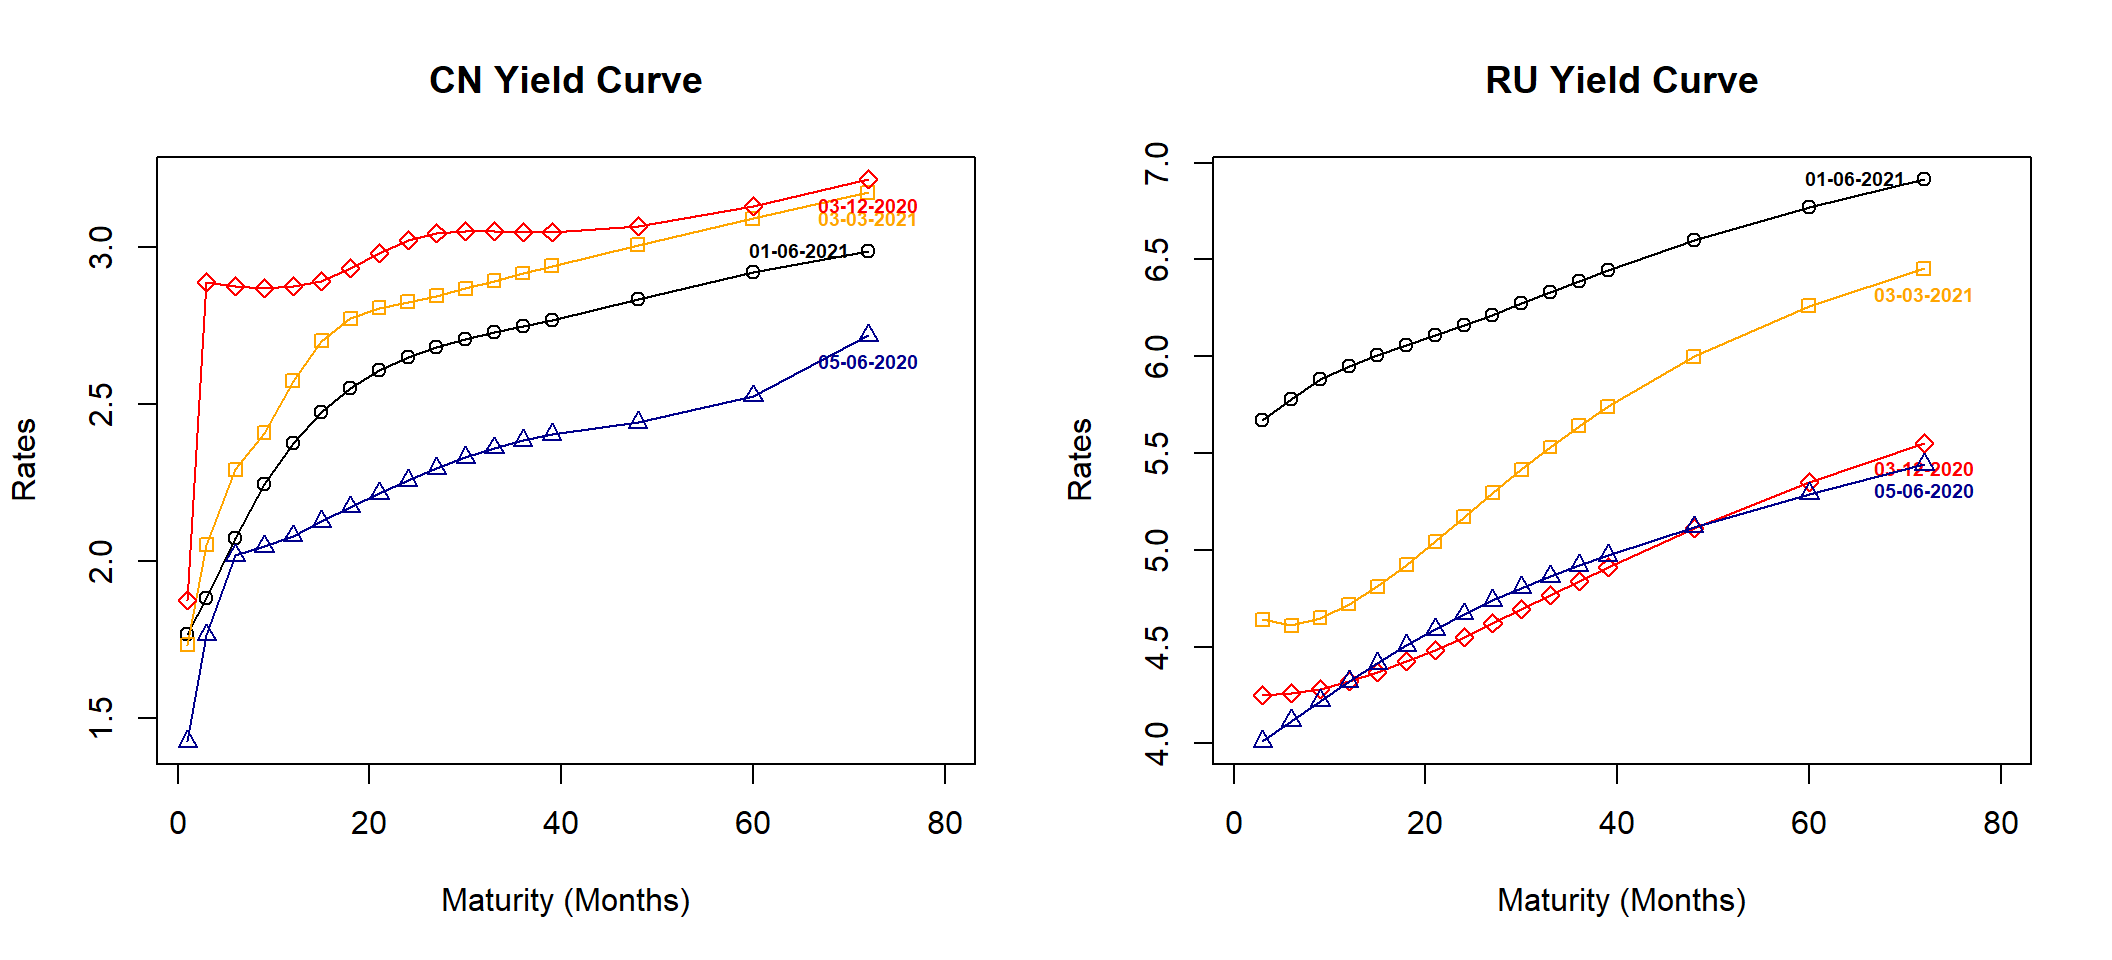
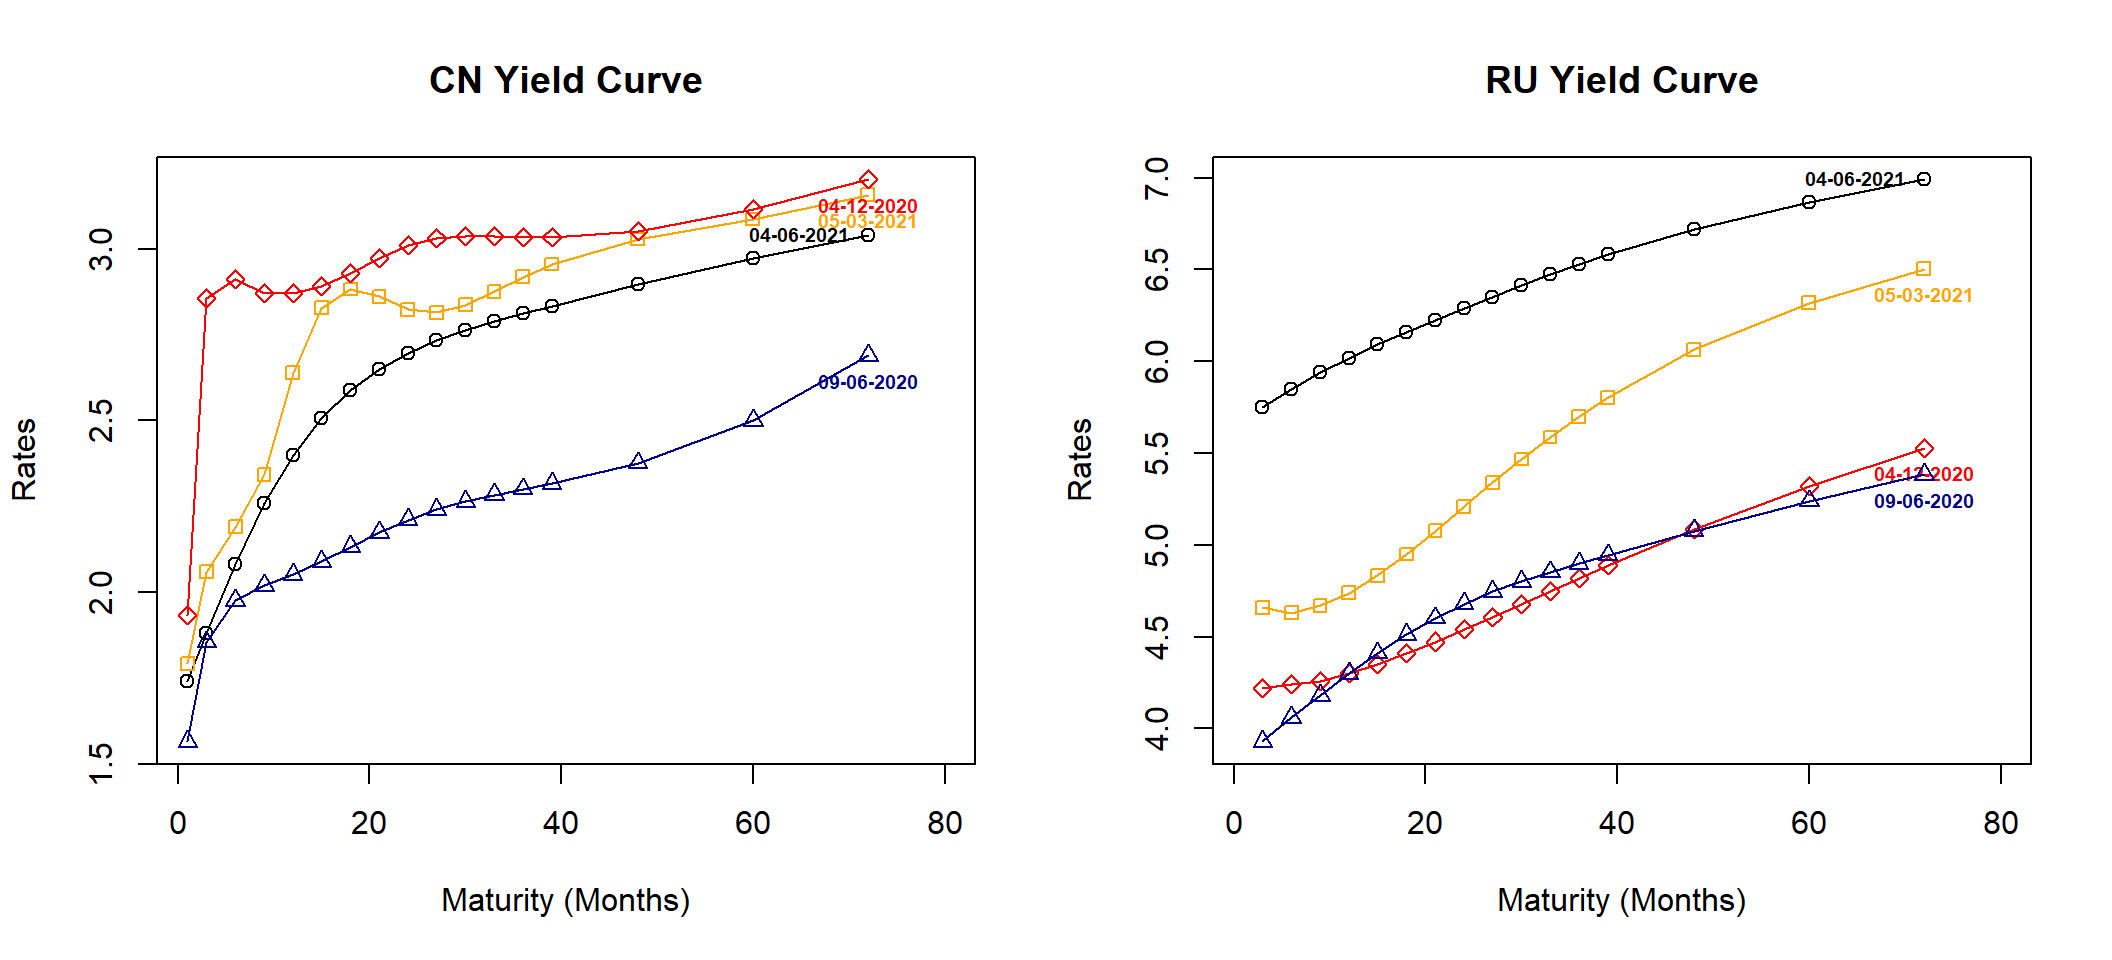
Add files via upload

diff --git a/index.html b/index.html
@@ -10,7 +10,7 @@
 
 
 
-<meta name="date" content="2021-01-06" />
+<meta name="date" content="2021-04-06" />
 
 <title>Yield Curves of BR, US, CN, and RU</title>
 
@@ -295,7 +295,7 @@ $(document).ready(function () {
 
 
 <h1 class="title toc-ignore">Yield Curves of BR, US, CN, and RU</h1>
-<h4 class="date">01/06/2021</h4>
+<h4 class="date">04/06/2021</h4>
 
 </div>
 
